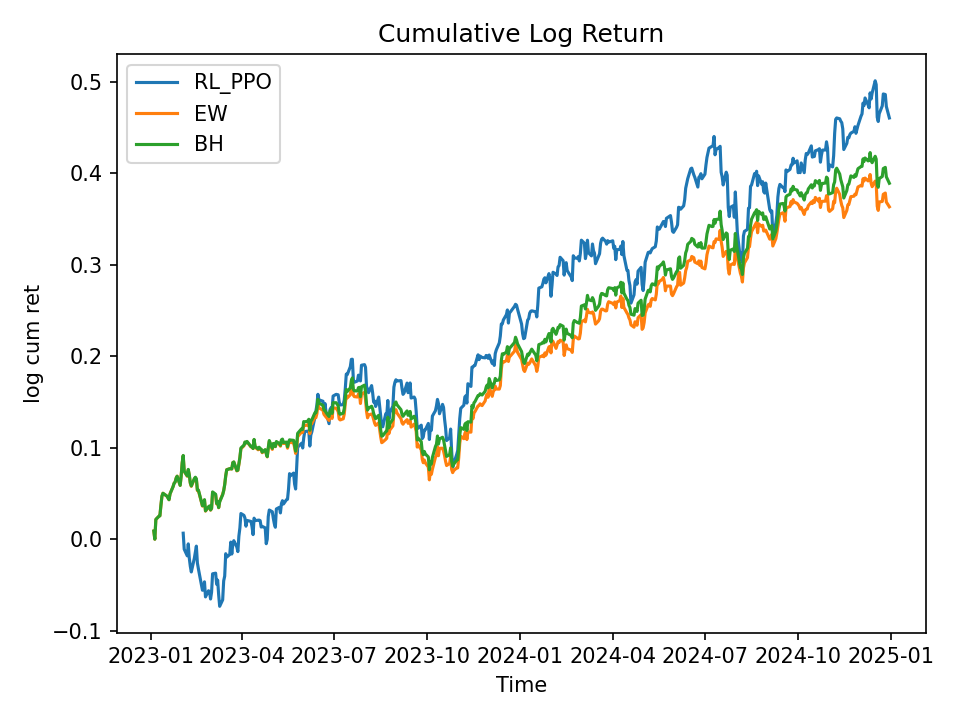
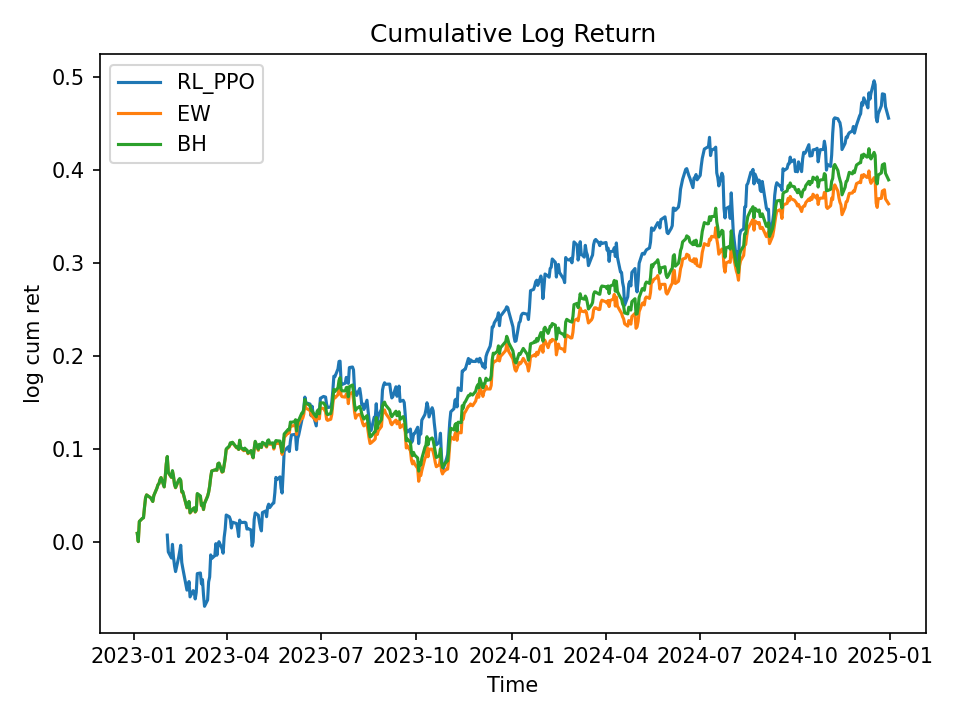
Added initial transaction cost for entering the marker for the baseline strategies

Changed region(s): [[0.0625, 0.0611, 0.9688, 0.9778], [0.375, 0.0306, 0.6875, 0.0611]]

diff --git a/src/baselines.py b/src/baselines.py
@@ -23,7 +23,7 @@ def _is_rebalance_day(idx: pd.DatetimeIndex, freq: str, t: int) -> bool:
     # 默认不再平衡
     return False
 
-def buy_and_hold(returns: pd.DataFrame):
+def buy_and_hold(returns: pd.DataFrame, cost_bps: float = 0.0):
     """
     真正的 Buy-and-Hold（用 log return 严谨实现）：
     - t=0 等权
@@ -34,6 +34,7 @@ def buy_and_hold(returns: pd.DataFrame):
     R = returns.values              # log returns [T,N]
     growth = np.exp(R)              # 每日增长因子
     N = returns.shape[1]
+    fee = cost_bps / 1e-4
 
     w = np.ones(N) / N              # 初始等权
     out = []
@@ -43,6 +44,12 @@ def buy_and_hold(returns: pd.DataFrame):
         port_growth = float(np.dot(w, growth[t]))
         # 当日组合 log 回报
         r_port = np.log(port_growth)
+
+        # For intial transaction fee to enter the market
+        if t == 0 and fee > 0:
+            turnover = np.abs(w).sum()  
+            r_port -= fee * turnover
+
         out.append(r_port)
 
         # 用当日增长后更新“自然漂移”的新权重（不再平衡）
@@ -73,6 +80,7 @@ def equal_weight(returns: pd.DataFrame, freq: str = 'M', cost_bps: float = 0.0):
         r_port = np.log(port_growth)
 
         # 是否再平衡
+        # initial transaction fee for entering the market is applied
         if _is_rebalance_day(idx, freq, t):
             w_new = np.ones(N) / N
             turnover = np.abs(w_new - w).sum()
@@ -81,7 +89,7 @@ def equal_weight(returns: pd.DataFrame, freq: str = 'M', cost_bps: float = 0.0):
         else:
             # 非再平衡日，权重自然漂移（以便下一次再平衡时计算换手）
             w = (w * growth[t]) / (port_growth + 1e-12)
-
+        
         out.append(r_port)
 
     ser = pd.Series(out, index=idx)
